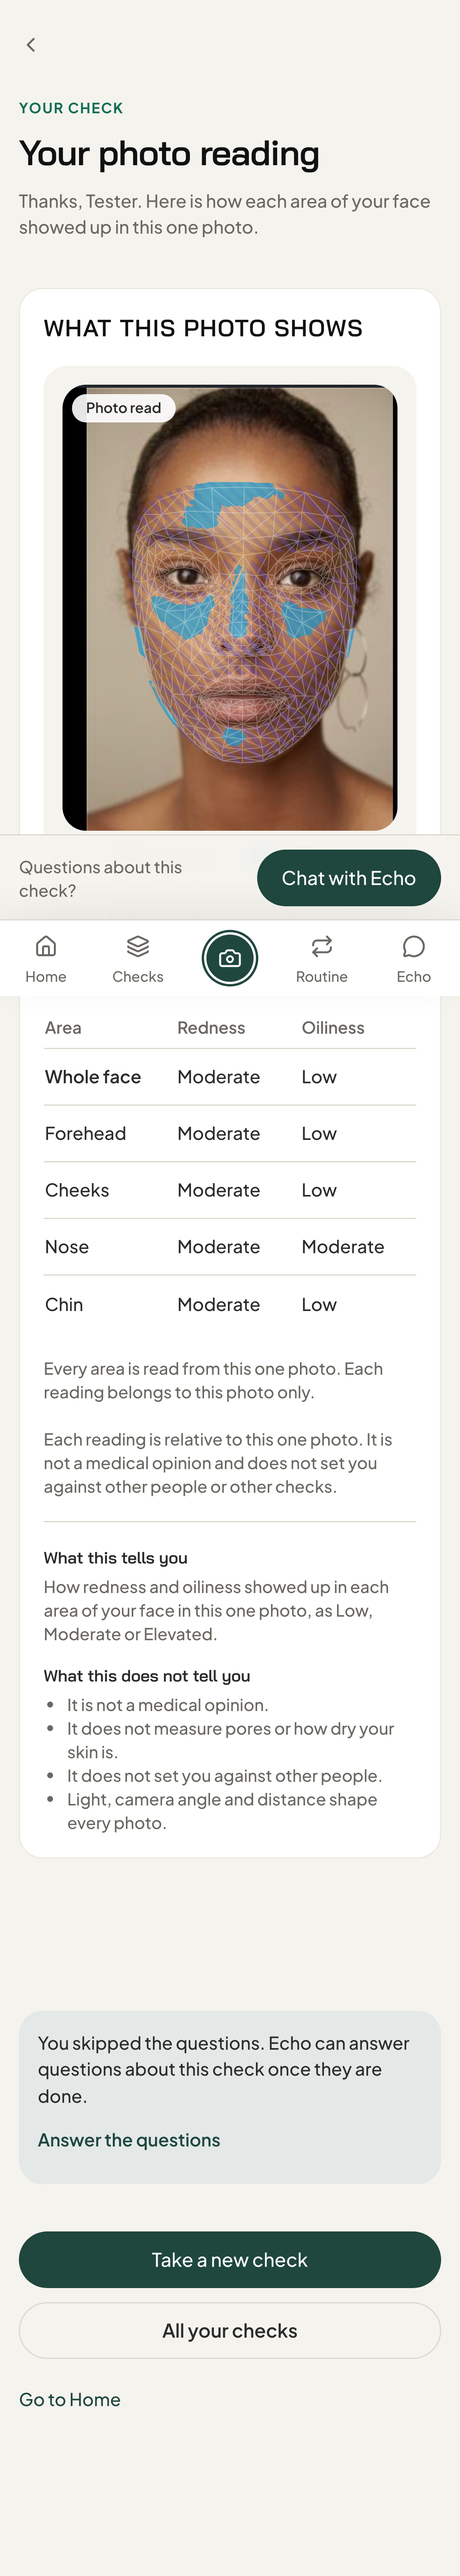
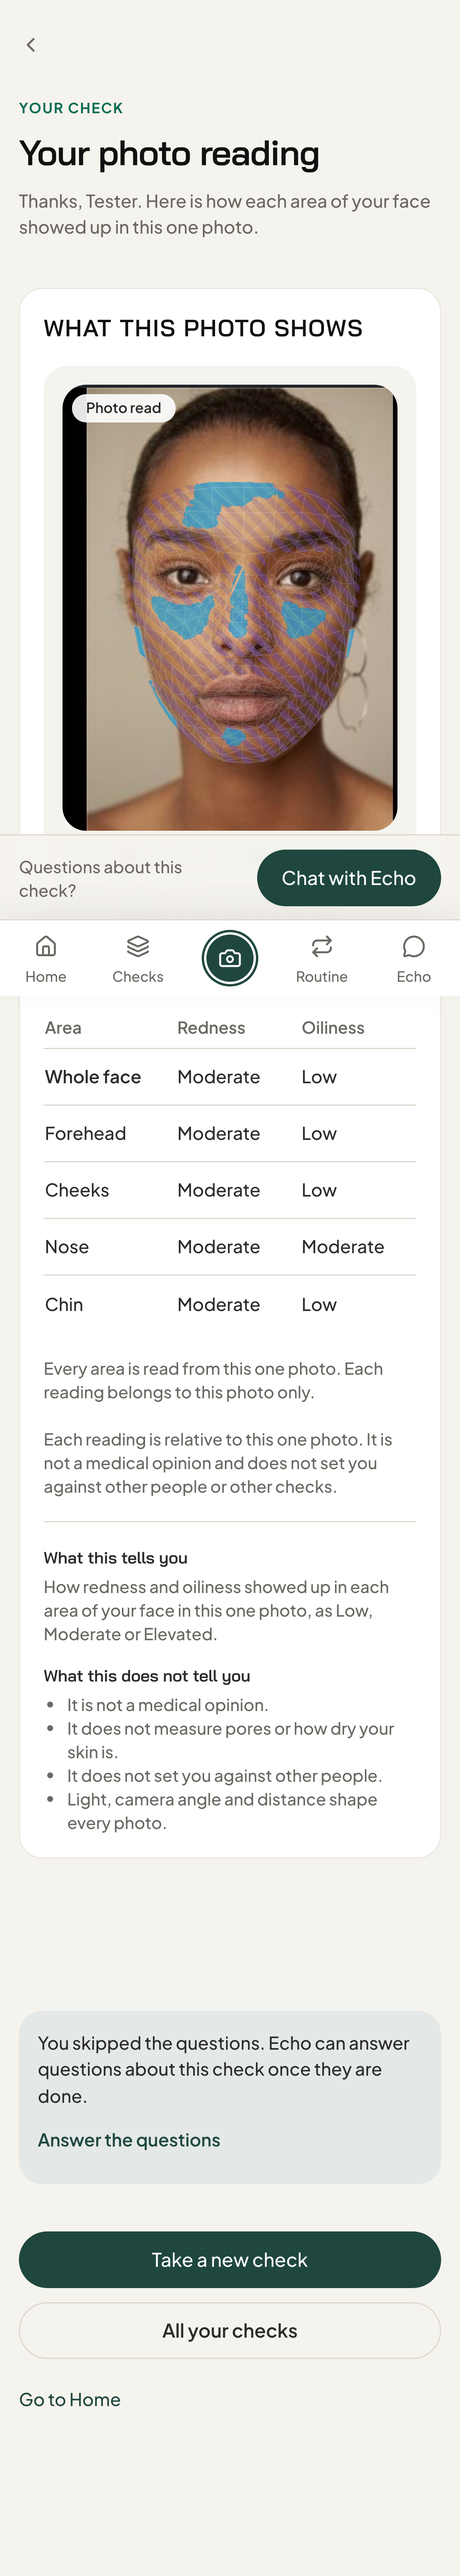
docs(tracker): G20 done (checked local, test:all at 6000f9f); TD-39 owner queue

Changed region(s): [[0.2769, 0.1869, 0.8, 0.3115]]

diff --git a/docs/PROJECT_SKIN_EXECUTION_TRACKER.md b/docs/PROJECT_SKIN_EXECUTION_TRACKER.md
@@ -21,8 +21,8 @@ Percentages measure execution tracking only. They are not scientific accuracy, m
 | Last tracker update | 2026-10-10 |
 | Last validated commit | 61d4b67 on feat/echo-own-products (2026-10-10, TD-34): npm run test:all exit 0 (unit 2159, stack 78/78, browser 59/59, build OK); PR open, not merged. Before: 710ede8 on feat/optional-questionnaire (2026-10-10, TD-33, with the owner's copy decisions): npm run test:all exit 0 (unit 2069, stack 78/78, browser 52/52, build OK); PR #9 open, not merged. Before: 261e39e on release/real-users (2026-10-09, TD-29, after the security, safety and design review fixes): npm run test:all exit 0 (typecheck 0, lint clean, unit 2019 passed / 65 skipped in 93 files, local stack 15 files 64/64, browser 38/38, next build OK); rules emulator 25/25. PR #6 into master, not merged; CI verify and Vercel preview pass. Previous: 57aad53. |
 | Overall execution percentage | 60% = DONE 86 / (total 153 - LATER 9). Execution tracking only; NOT scientific accuracy or product readiness. DONE includes branch-only work not deployed. |
-| Build status counts | DONE 89, IN PROGRESS 3, NOT STARTED 30, BLOCKED 10, OWNER ACTION 23, LATER 10 (total 165) |
-| Check status counts | CHECKED PROD 6, CHECKED LOCAL 77, NOT NEEDED 17, NOT CHECKED 65 |
+| Build status counts | DONE 90, IN PROGRESS 2, NOT STARTED 30, BLOCKED 10, OWNER ACTION 23, LATER 10 (total 165) |
+| Check status counts | CHECKED PROD 6, CHECKED LOCAL 78, NOT NEEDED 17, NOT CHECKED 64 |
 | Remaining tasks (not DONE) | 67 |
 | Current milestone | FOUNDATION (first milestone with open tasks) |
 
@@ -207,7 +207,7 @@ Execution order (TD-04, owner 2026-10-03): Phase 0 deploy is paused after C1. Fe
 | G17 | G | Dashboard | Product-name boxes for prescription and other products (TD-33 (2)) | Optional 200-character box under 'A prescription product' and the new 'Other products' option of current_products; cleared when unpicked; stored as skinChecks.productNames (outside answers), never sent to Gemini or logged, not read by safety or rules, erased with the account, shown only in the user's own check; rules accept a short string only with its option picked, owner only. questionnaireVersion 2. | DONE | CHECKED LOCAL | P1 | TD-33 | TD-33 | Unassigned | Frontend Engineer | lib/skin-check-steps.ts, components/skin-check/inputs, firestore.rules | Commit + Gemini pin, rules emulator and erase tests | npm run test:all exit 0 at 173ca1f (2026-10-10): typecheck 0, lint clean, unit 2069 passed / 79 skipped in 97 files, local stack 16 files 78/78 (rules incl. firestore-rules-questionnaire, privacy.e2e erase of product names), browser 52/52 (TD-33 at 390/768/1280), next build OK. Four fresh reviews (design, flow, safety, privacy) fixed in bdc197f and c79ff12. | 173ca1f |  |  | Owner: docs/OWNER_QUEUE.md TD-33 release (rules Q1 before merge Q2). | PRIVACY/SAFETY | 2026-10-10 | docs/design/optional-questionnaire.md §3 |
 | G18 | G | Dashboard | Face mesh over the photo (TD-37 (2), (5)) | Scanning animation over the photo while it is analysed (reduce motion: still; no mesh: plain progress state); mesh on the results, an opened check and Home over a kept photo, with the chosen face area highlighted; no kept photo: the face drawing. Points from an in-browser landmark library (the engine returns none), pinned, model and wasm served from our own site, loaded only where a check's results are shown; the photo never leaves the device for it. Never drawn as a finding. | DONE | CHECKED LOCAL | P1 | TD-37 | TD-37 | Unassigned | Frontend Engineer | components/mesh/, public/mediapipe/ | Commit + unit tests + browser tests at 390/768/1280 + screenshots | npm run test:all exit 0 at 5e8a1fc (2026-10-11): typecheck 0, lint clean, unit 2202 passed / 79 skipped in 101 files, local stack 16 files 78/78, browser 75/75 (tests/browser/mesh.spec.ts 16 at 390/768/1280; one earlier run hit the known fake-webcam flake in questionnaire.spec, passed on rerun), next build OK. Four fresh reviews (design, flow, safety, privacy) fixed in c7e6494. Screenshots docs/design/after-mesh/. | c7e6494 |  |  | Owner: docs/OWNER_QUEUE.md TD-37 (M1-M4); mesh on Home and an opened check needs H32 | DASHBOARD | 2026-10-11 |  |
 | G19 | G | Dashboard | Photo readings for Redness and Oiliness only (TD-37 (1), (3), (4)) | Breakouts, Texture and Dark marks: no overlay and no level anywhere (results, Home, Checks, opened check, face drawing, summary lines, top concerns, Echo panel, old checks). Their chips show the user's own answers, labelled "From what you told us", or an invitation when skipped. One line near the chips says which readings come from the photo. The engine values stay on the server record unchanged. | DONE | CHECKED LOCAL | P1 | TD-37 | TD-37 | Unassigned | Frontend Engineer | components/dashboard/, components/skin-check/, lib/ | Commit + unit tests + browser tests + screenshots | npm run test:all exit 0 at 5e8a1fc (2026-10-11): typecheck 0, lint clean, unit 2202 passed / 79 skipped in 101 files, local stack 16 files 78/78, browser 75/75 (tests/browser/mesh.spec.ts 16 at 390/768/1280; one earlier run hit the known fake-webcam flake in questionnaire.spec, passed on rerun), next build OK. Four fresh reviews (design, flow, safety, privacy) fixed in c7e6494. Screenshots docs/design/after-mesh/. | c7e6494 |  |  | Owner: docs/OWNER_QUEUE.md TD-37 (M3-M4) | DASHBOARD | 2026-10-11 |  |
-| G20 | G | Dashboard | One photo with both overlays, no chips (TD-39) | The results show the analysed photo once, with the face mesh and the Redness and Oiliness overlays together in two clearly different styles and a legend. No chips, no face-area choice, no toggle. Below the photo, one table: Redness and Oiliness levels for the whole face and each face area, levels only. Breakouts, Texture and Dark marks chips, their "From what you told us" panels and the sources line are removed from the results, Home, an opened check and Echo's panel. Home and an opened check: the kept photo with the mesh (or the face drawing) and the same table. Old checks the same. | IN PROGRESS | NOT CHECKED | P1 | G18, G19 | TD-39 | Unassigned | Frontend Engineer | components/skin-check/, components/dashboard/, components/mesh/, components/checks/ | Commit + unit tests + browser tests at 390/768/1280 on a light-skin and a dark-skin photo + screenshots + design and safety reviews |  |  |  |  | Build on feat/one-photo-two-overlays, PR not merged | DASHBOARD | 2026-10-11 | Supersedes the chip and area-choice parts of G18 and G19 |
+| G20 | G | Dashboard | One photo with both overlays, no chips (TD-39) | The results show the analysed photo once, with the face mesh and the Redness and Oiliness overlays together in two clearly different styles and a legend. No chips, no face-area choice, no toggle. Below the photo, one table: Redness and Oiliness levels for the whole face and each face area, levels only. Breakouts, Texture and Dark marks chips, their "From what you told us" panels and the sources line are removed from the results, Home, an opened check and Echo's panel. Home and an opened check: the kept photo with the mesh (or the face drawing) and the same table. Old checks the same. | DONE | CHECKED LOCAL | P1 | G18, G19 | TD-39 | Unassigned | Frontend Engineer | components/skin-check/, components/dashboard/, components/mesh/, components/checks/ | Commit + unit tests + browser tests at 390/768/1280 on a light-skin and a dark-skin photo + screenshots + design and safety reviews | npm run test:all exit 0 at 6000f9f (2026-10-11): typecheck 0, lint clean, unit 2204 passed / 79 skipped in 101 files, local stack 16 files 78/78, browser 81/81 (tests/browser/mesh.spec.ts at 390/768/1280 on a darker and a lighter face; one earlier run hit the known fake-webcam focus flake in questionnaire.spec, passed on rerun), next build OK. Fresh design and safety reviews: safety found no blocker; design findings fixed in 6000f9f. Screenshots docs/design/after-one-photo/. | 6000f9f |  |  | Owner: docs/OWNER_QUEUE.md TD-39 (O1-O2) | DASHBOARD | 2026-10-11 | Supersedes the chip and area-choice parts of G18 and G19 |
 | G21 | G | Dashboard | Overlays on Home, an opened check and old checks | The engine returns the two overlays only in the live scan response; they are never saved (Firestore 1 MiB limit, persistableResult and the scanAnalyses allowlist leave them out). So under TD-39 Home, an opened check and old checks show the photo and mesh (or the face drawing) and the readings table, with a line that the colour maps show only right after a check. Showing them there would need a new saved field (privacy review, erase, kept-photo consent) and would never cover old checks. | LATER | NOT CHECKED | P3 | G20 | TD-39 | Owner | Frontend Engineer | lib/firebase/skin-checks.ts, lib/scan-analysis-record.ts | Owner decision to store overlays |  |  |  | Owner chose results-only overlays (2026-10-11) | Owner decides whether to store overlays for kept-photo checks |  | 2026-10-11 | Found in TD-39 work |
 | G22 | G | Dashboard | Home "Recently" card style | TD-39 design review: the Home "Recently" card shows linen with the #ddd8ce border; every other card is white with #ece8e1 (system.md §5). Older than TD-39; not changed under it. | NOT STARTED | NOT CHECKED | P3 |  |  | Unassigned | Frontend Engineer | components/dashboard/DashboardPage.tsx | Commit + screenshot |  |  |  |  | Give the card bg-brand-paper and border-brand-card-line |  | 2026-10-11 | Found in TD-39 design review |
 | G23 | G | Dashboard | Full phone number on the check flow | TD-39 design review: the check flow shows "You're signed in as +91…" in full while other screens show only the last 4 digits. Not changed under TD-39. | NOT STARTED | NOT CHECKED | P3 |  |  | Unassigned | Frontend Engineer | components/skin-check/ | Commit + screenshot |  |  |  |  | Show the last 4 digits as on the account button |  | 2026-10-11 | Found in TD-39 design review |
